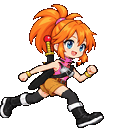
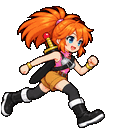
art(player): restore original run proportions

diff --git a/tools/art/build_player_idle_run_revision.py b/tools/art/build_player_idle_run_revision.py
@@ -29,8 +29,7 @@ def build():
     # Keep the curved dark eyelid itself (y=46+) intact.
     clean = ImageDraw.Draw(blink_seed)
     clean.rectangle((50, 41, 57, 42), fill=(252, 225, 201, 255))
-    for anim in ('idle', 'run'):
-        (OUT / anim).mkdir(parents=True, exist_ok=True)
+    (OUT / 'idle').mkdir(parents=True, exist_ok=True)
     # One smooth inhale/exhale cycle: upper body moves together, no x sway,
     # no isolated head deformation, and the feet never move.
     for i, offset in enumerate((0, 0, 1, 1, 1, 0)):
@@ -41,17 +40,5 @@ def build():
             frame.paste(pose.crop((0, 0, 96, 90)), (0, 1))
             frame.paste(pose.crop((0, 91, 96, 128)), (0, 91))
         frame.save(OUT / 'idle' / f'{i+1:02}.png')
-    head = seed.crop((0, 0, 96, 62))
-    for i in range(4):
-        original = Image.open(ROOT / f'art/previews/phase_b/2026-10-24_aclaire_run_v4_redraw/{i+1:02}.png').convert('RGBA')
-        # Shared torso/leg transform, rather than a per-frame fit. Keep the
-        # established alternating leg poses and soles at row 127.
-        body = original.crop((0, 50, 128, 126)).resize((128, 66), Image.Resampling.NEAREST)
-        frame = Image.new('RGBA', (128, 128))
-        frame.alpha_composite(body, (0, 62))
-        frame.alpha_composite(head, (16, 0))
-        frame.save(OUT / 'run' / f'{i+1:02}.png')
-
-
 if __name__ == '__main__':
     build()

diff --git a/tools/art/test_player_atlas.py b/tools/art/test_player_atlas.py
@@ -1,6 +1,7 @@
 """Production packet checks: frame coverage, lossless packing and anchors."""
 from pathlib import Path
 import json
+import hashlib
 import unittest
 from PIL import Image
 
@@ -21,10 +22,15 @@ class MovementPacketTests(unittest.TestCase):
             self.assertEqual((base[0],base[2]), (box[0],box[2]))
             self.assertLessEqual(abs(box[1]-base[1]), 1)
             self.assertEqual(base[3]-base[1], box[3]-box[1])
-        for i in range(4):
-            box = eyes(f'run_{i:03}')
-            self.assertEqual((base[2]-base[0],base[3]-base[1]),
-                             (box[2]-box[0],box[3]-box[1]))
+        original_run = (
[4 lines of base64/hex data omitted]
+        )
+        for i, digest in enumerate(original_run):
+            frame = (ROOT/f'art/frames/player/run_{i:03}.png').read_bytes()
+            self.assertEqual(digest, hashlib.sha256(frame).hexdigest())
 
     def test_roundtrip_coverage_and_baseline(self):
         data=json.loads((ROOT/'public/assets/sprites/player/player.json').read_text())

diff --git a/tools/art/build_player_movement_atlas.py b/tools/art/build_player_movement_atlas.py
@@ -62,12 +62,12 @@ def build():
     DEST.mkdir(parents=True, exist_ok=True)
     REVIEW.mkdir(parents=True, exist_ok=True)
     result = {}
-    folders = {'idle':'2026-10-24_idle_run_revision/idle', 'run':'2026-10-24_idle_run_revision/run',
+    folders = {'idle':'2026-10-24_idle_run_revision/idle', 'run':'2026-10-24_aclaire_run_v4_redraw',
                'jump_up':'2026-10-24_aclaire_jump_up_v4_study'}
     for anim, folder in folders.items():
         for i, path in enumerate(sorted((PREVIEW/folder).glob('*.png'))):
             source = Image.open(path).convert('RGBA')
-            if anim in ('idle', 'run'):
+            if anim == 'idle':
                 frame = indexed(source)
             else:
                 frame = anchor(source, (128 if anim == 'run' else 96, 128), .94 if anim == 'jump_up' else 1)

diff --git a/art/reports/phase_b.md b/art/reports/phase_b.md
@@ -5,10 +5,10 @@
 Pinz reported head-only jitter in idle, a smaller head on entering run, and an unnatural blink. The previous idle builder applied row-weighted one-pixel offsets to the upper silhouette. Run studies independently fitted each full pose to a target height, so foot alignment alone did not ensure matching head proportions.
 
 - Added `tools/art/build_player_idle_run_revision.py`. Idle now moves the entire upper body together vertically by one physical pixel, with fixed horizontal position and fixed feet. Six frames and 8fps remain unchanged.
-- Run reuses the approved V4 head pixels at the same scale as idle, across all four poses. A shared lower-body transform retains the alternating leg keys and the last-row sole anchor. The head/ponytail is intentionally stable in this correction; this is not a new hair-sway pass.
+- The initial run-size correction was reverted at Pinz's request. The four run frames now match the original production atlas byte-for-byte; idle and the improved blink remain in place.
 - Redrew the closed eyes for `idle_003` using built-in imagegen, then composited only the eye regions into the approved face and quantized to the existing palette. Mouth, head outline and hair remain from V4. Source: `art/concept/2026-10-24_aclaire_blink_revision_source.png`.
 - New versioned studies, before/after blink comparison and an idle/run transition APNG are in `art/previews/phase_b/2026-10-24_idle_run_revision/`. Earlier approved study folders are untouched. Production frames and atlas incorporate the requested correction.
-- Verification: asset validator PASS; 11 art tests PASS, including fixed idle horizontal eye position and matching idle/run eye dimensions. All soles remain on row 127. Browser review loads the real atlas at scale 0.5; level 1-1 was checked for movement and grounded return. Combat knockback occurred during a run sample, so that airborne screenshot is not evidence of a floor-anchor defect. Visual acceptance remains Pinz's decision.
+- Run frames were restored byte-for-byte from the original production packet (commit `1c94401`). Verification: asset validator PASS; 11 art tests PASS, including fixed idle horizontal eye position and hashes for the restored run frames. All soles remain on row 127. Browser review loads the real atlas at scale 0.5; level 1-1 was checked for movement and grounded return. Combat knockback occurred during a run sample, so that airborne screenshot is not evidence of a floor-anchor defect.
 - No changes to game code, manifests/config, protected references or handoff specification. Existing integration notes below still apply. Phase C remains paused for style approval.
 
 This delivery follows merged PR #5 and is based on main `6a78a06` (including Claude's player V4 integration, PR #6). It supersedes earlier status notes below. Full Phase B is not complete.
